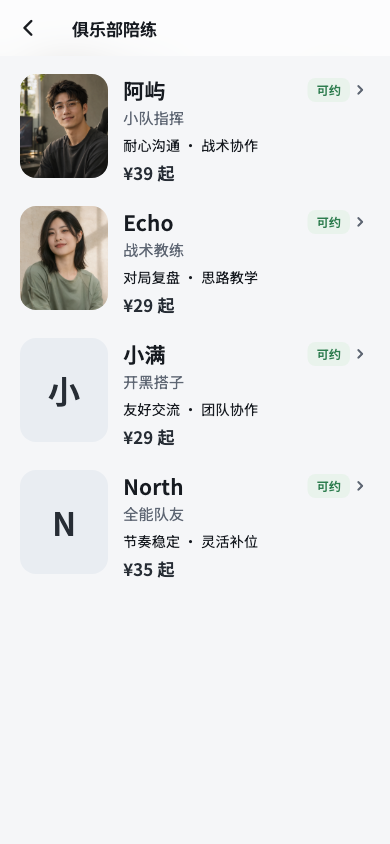
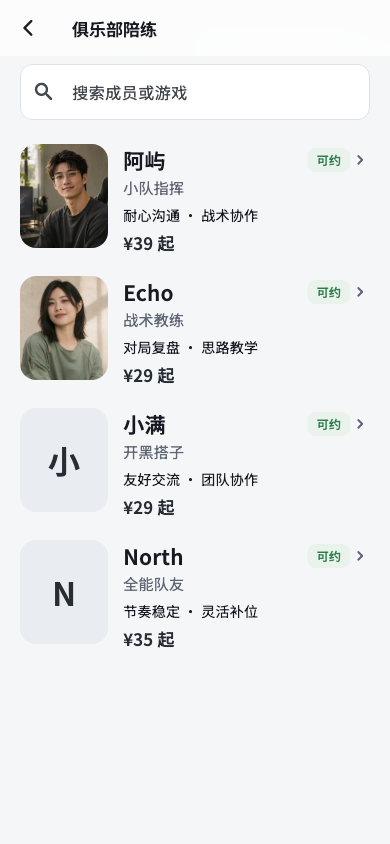
feat(app): 陪练目录补齐按昵称/身份/游戏搜索，对齐小程序目录筛选

diff --git a/apps/mobile/lib/discover.dart b/apps/mobile/lib/discover.dart
@@ -1013,21 +1013,47 @@ class MemberRow extends StatelessWidget {
   );
 }
 
-class PlayersPage extends StatelessWidget {
+class PlayersPage extends StatefulWidget {
   const PlayersPage(this.repo, {super.key});
   final ClubRepository repo;
   @override
-  Widget build(BuildContext context) => ClubPage(
-    repo: repo,
-    title: '俱乐部陪练',
-    child: PageList(
-      children: [
-        if (repo.players.isEmpty)
-          const Text('暂无陪练', style: TextStyle(color: muted)),
-        ...repo.players.map((p) => RosterRow(repo: repo, player: p)),
-      ],
-    ),
-  );
+  State<PlayersPage> createState() => _PlayersPageState();
+}
+
+class _PlayersPageState extends State<PlayersPage> {
+  String query = '';
+  @override
+  Widget build(BuildContext context) {
+    final repo = widget.repo;
+    final q = query.trim();
+    final players = repo.players
+        .where(
+          (p) =>
+              q.isEmpty ||
+              '${p['name']} ${p['role']} ${(p['games'] as List? ?? []).join(' ')}'
+                  .contains(q),
+        )
+        .toList();
+    return ClubPage(
+      repo: repo,
+      title: '俱乐部陪练',
+      child: PageList(
+        children: [
+          TextField(
+            decoration: const InputDecoration(
+              prefixIcon: Icon(Icons.search_rounded),
+              hintText: '搜索成员或游戏',
+            ),
+            onChanged: (v) => setState(() => query = v),
+          ),
+          const SizedBox(height: 14),
+          if (players.isEmpty)
+            const Text('没有匹配的成员', style: TextStyle(color: muted)),
+          ...players.map((p) => RosterRow(repo: repo, player: p)),
+        ],
+      ),
+    );
+  }
 }
 
 class PlayerPage extends StatefulWidget {
